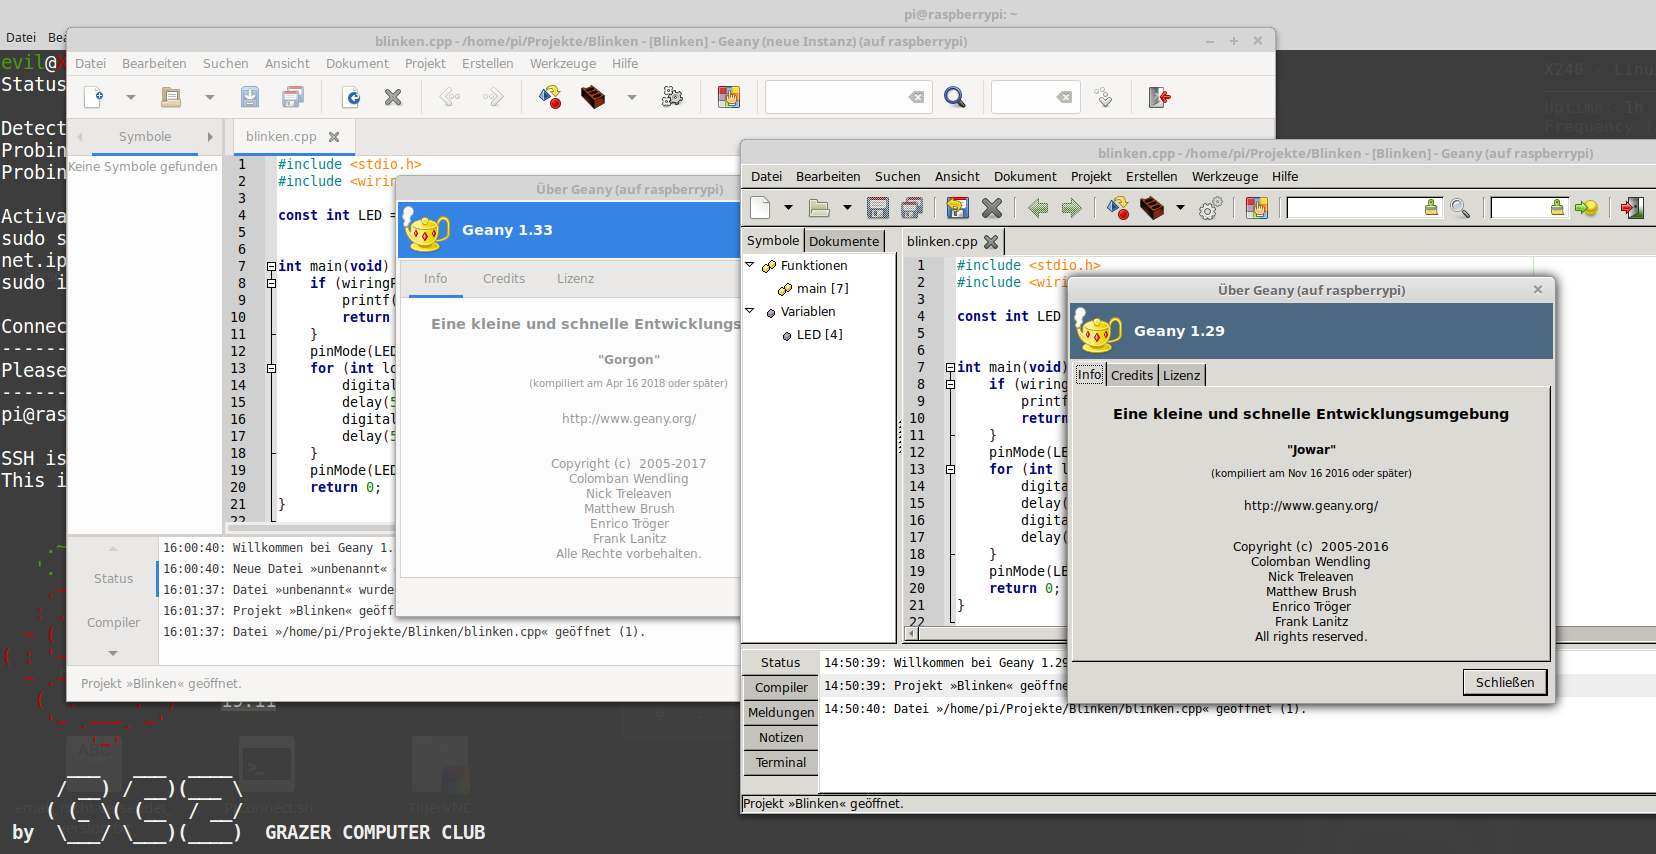
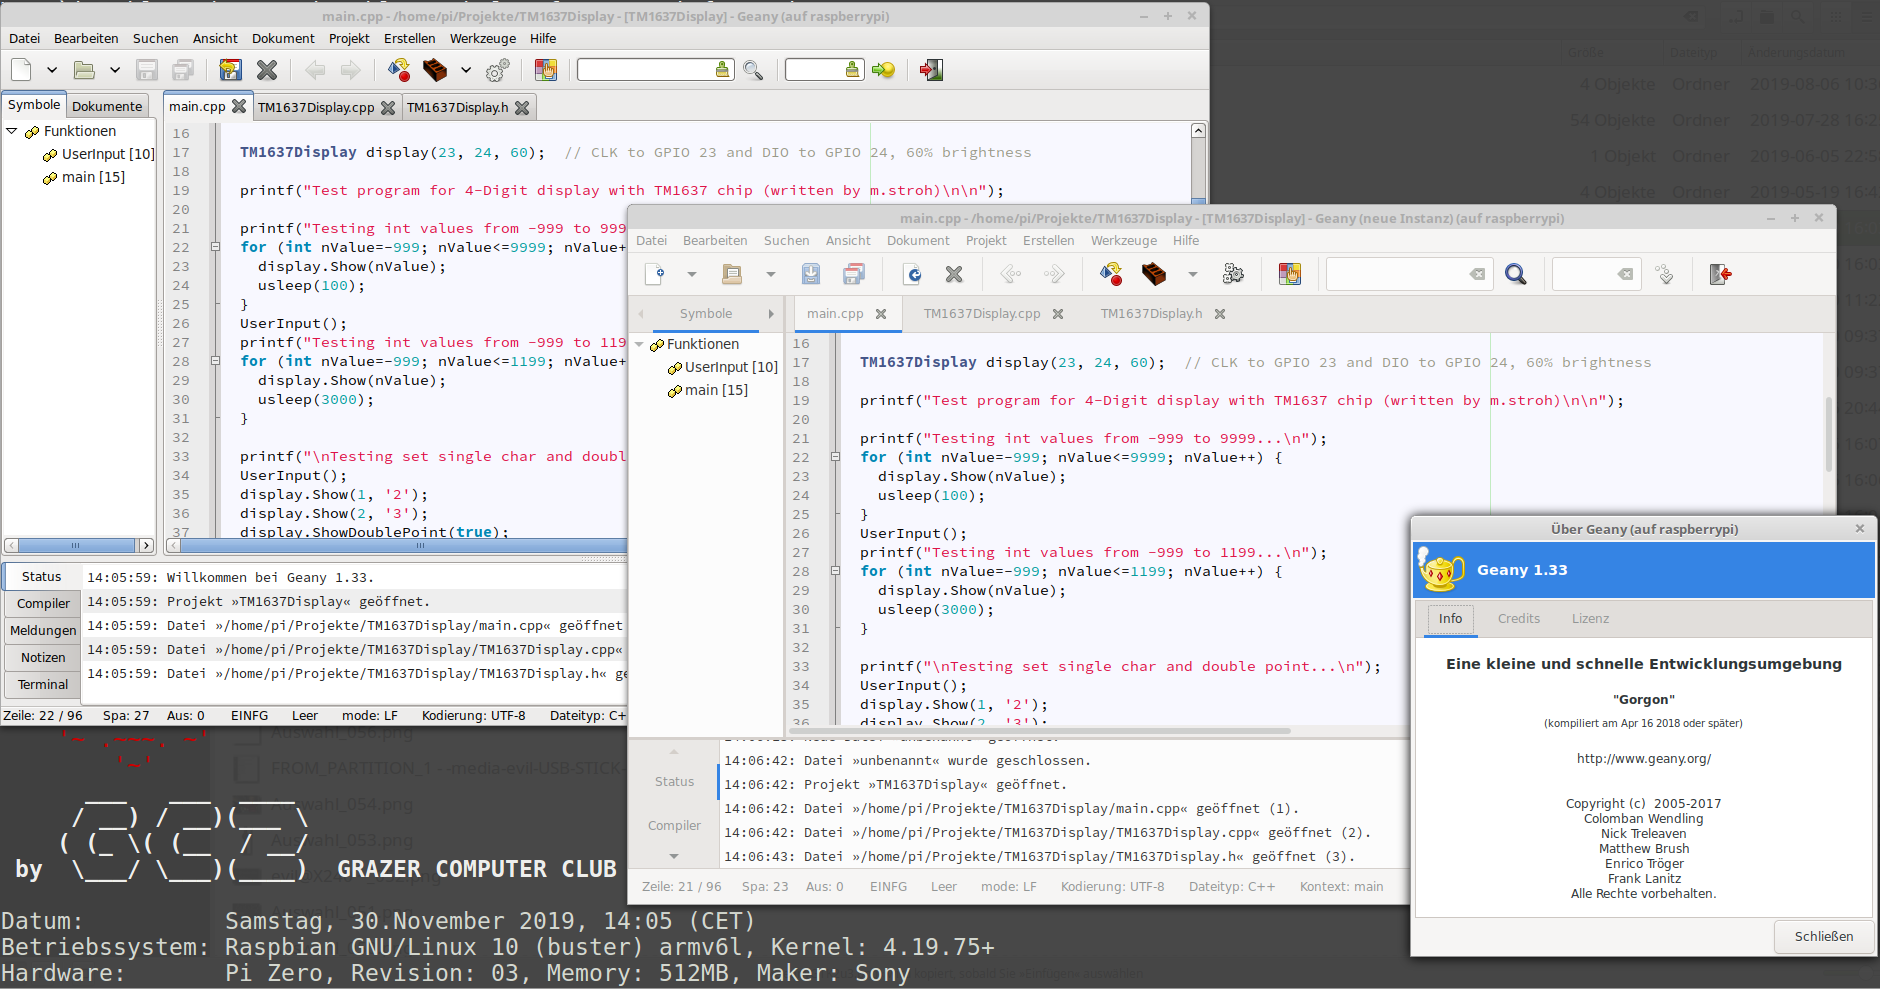
geany GTK2 update

diff --git a/content/post/geany.md b/content/post/geany.md
@@ -2,11 +2,11 @@
 showonlyimage = false
 draft = false
 image = "img/geany.png"
-date = "2019-11-10"
+date = "2019-11-30"
 title = "Geany mit GTK2"
 writer = "Martin Strohmayer"
-categories = ["Raspberry Pi Zero"]
-keywords = ["geany", "GTK", "GTK2", "GTK3", "VTE"]
+categories = ["Raspberry Pi Zero", "Raspberry Pi"]
+keywords = ["geany", "GTK", "GTK2", "GTK3", "VTE", "theme"]
 weight = 1
 +++
 
@@ -62,18 +62,88 @@ ldd /usr/bin/geany
 	libgeany.so.0 => /lib/arm-linux-gnueabihf/libgeany.so.0 (0xb6d58000)
 -->
 
-**Aufruf geany mit GTK2:**
 
+### Geany 1.33 GTK2 erstellen 
+
+Die Geany Version 1.33 mit der GTK2 Bibliothek kann selbst erstellt werden. Dies ist allerdings ein aufwendiger Prozess.
+Würde man das resultierende Debian Paket dann installieren wird die GTK3 Version ersetzt. Wir kopieren aber wieder die erzeugten Dateien zusätzlich
+auf das Raspbian System.  
+
+Zuerst besorgt man sich den Source-Code des Debian Paketes. Dann benötigt man noch alle Abhängigkeiten des Paketes und die GTK2 Development Library.
+Nun muss man den Source-Code entpacken. In der Datei "debian/rules" muss der Parameter "--enable-gtk3" entfernt werden. Danach kann das Paket neu erzeugt werden. Nun kopieren wir das neue Programm und die Bibliothekdateien in eine neue Datei bzw. Verzeichnis.
+
+geany-gtk2.patch:
+```
+--- geany-1.33/debian/rules.old	2019-11-27 21:55:31.871256842 +0100
++++ geany-1.33/debian/rules	2019-11-28 22:27:55.832759732 +0100
+@@ -10,7 +10,7 @@
+ 	NOCONFIGURE=1 dh_autoreconf ./autogen.sh
+ 
+ override_dh_auto_configure:
+-	dh_auto_configure -- --enable-vte --enable-the-force --enable-gtk3
++	dh_auto_configure -- --enable-vte --enable-the-force 
+ 	sed -i -r 's,^sys_lib_dlsearch_path_spec="(.*)$$,sys_lib_dlsearch_path_spec="/usr/lib /lib \1,' $(CURDIR)/libtool
+ 
+ override_dh_auto_install:
+```
+
+<!--
+pkg-config --libs gtk+-2.0
+-lgtk-x11-2.0 -lgdk-x11-2.0 -lpangocairo-1.0 -latk-1.0 -lcairo -lgdk_pixbuf-2.0 -lgio-2.0 -lpangoft2-1.0 -lpango-1.0 -lgobject-2.0 -lglib-2.0 -lfontconfig -lfreetype
+-->
+
+```
+sudo su -c "grep '^deb ' /etc/apt/sources.list | sed 's/^deb/deb-src/g' > /etc/apt/sources.list.d/deb-src.list"
+sudo apt update
+sudo apt install build-essential fakeroot devscripts
+sudo apt-get build-dep geany
+sudo apt-get install libgtk2.0-dev libgdk-pixbuf2.0-dev libatk1.0-dev libcairo2-dev libgio2.0-cil-dev libfreetype6-dev libpango1.0-dev
+mkdir build
+cd build
+apt-get source geany
+patch -p0 -i geany-gtk2.patch
+cd geany-1.33
+debuild -uc -us -b
+sudo cp usr/bin/geany /usr/bin/geany-gtk2
+sudo mkdir /usr/lib/arm-linux-gnueabihf/geany-gtk2/
+sudo cp -rv usr/lib/arm-linux-gnueabihf/* /usr/lib/arm-linux-gnueabihf/geany-gtk2/
+cd ..
+```
+
+## Start ##
+
+Bei Aufruf der GTK2 version muss man die Pfad für die Bibliothek setzen damit nicht die GTK3 Bibliothek geladen wird. 
+
+**Aufruf geany mit GTK2:**
 ```
 LD_LIBRARY_PATH=/usr/lib/arm-linux-gnueabihf/geany-gtk2/ geany-gtk2
 ```
 
-**Alias für Aufruf "~/.bash_aliases":**
+Bei einem alias Eintrag können die zwei Version direkt gestartet werden. 
 
+**Alias für Aufruf "~/.bash_aliases":**
 ```
-alias geany-gtk2="LD_LIBRARY_PATH=/usr/lib/arm-linux-gnueabihf/geany-gtk2/  geany-gtk2"
+alias geany-gtk2="LD_LIBRARY_PATH=/usr/lib/arm-linux-gnueabihf/geany-gtk2/ geany-gtk2"
 alias geany-gtk3="/usr/bin/geany"
 ```
+
+Mit dem Aufruf geany kann dann je nach Systemleistung die GTK2 oder GTK3 Version gestartet werden.
+
+**Alias für Aufruf "~/.profile":**
+
+```
+function geany() { 
+	if [ `cat /proc/cpuinfo | grep -e "^processor" | wc -l` = 1 ]; then 
+    echo "start geany with GTK 2 (slow single core cpu)" 
+		geany-gtk2 "$@"
+	else 
+		geany-gtk3 "$@"
+	fi
+}
+```
+
+Optischer Vergleich der beiden Versionen siehe Titelbild (GTK2 Clearlooks theme links, GTK3 rechts).
+
 
 ## Einstellungen ##
 
@@ -98,22 +168,22 @@ Folgende Zeit wurde ohne exakte Messung ermittelt und sind deshalb nur als Richt
 
 | *Aktion*     | *GTK3 (Sek.)* | *GTK2 (Sek.)* |
 |:-------------|--------|--------|
-| Start        | 11     | 6      |
-| Fenster öffnen: Kommandos zum Erstellen konfigurieren | 4  | 1 |
-| Fenster öffnen: Einstellungen                         | 10 | 2 |
-| Beenden        | 3    | 2      |
+| Start        | 8     | 4      |
+| Fenster öffnen: Kommandos zum Erstellen konfigurieren | 2  | 1 |
+| Fenster öffnen: Einstellungen                         | 7 | 2 |
+| Beenden        | 2    | 1      |
 
 
 ### Raspberry Pi 2
 
 | *Aktion*     | *GTK3 (Sek.)* | *GTK2 (Sek.)* |
-|:-------------|--------|--------|
-| Start        | 5      | 3      |
-| Fenster öffnen: Kommandos zum Erstellen konfigurieren | 2 | 1 |
-| Fenster öffnen: Einstellungen                         | 6 | 2 |
-| Beenden      | 2      | 1      |
+|:-------------|---------------|---------------|
+| Start        | 4             | 2             |
+| Fenster öffnen: Kommandos zum Erstellen konfigurieren | 1 | 1 |
+| Fenster öffnen: Einstellungen                         | 3 | 1 |
+| Beenden      | 1             | 1             |
 
-
+<!--
 ### Raspberry Pi 3
 
 | *Aktion*     | *GTK3 (Sek.)* | *GTK2 (Sek.)* |
@@ -122,3 +192,68 @@ Folgende Zeit wurde ohne exakte Messung ermittelt und sind deshalb nur als Richt
 | Fenster öffnen: Kommandos zum Erstellen konfigurieren | 1 | 1 |
 | Fenster öffnen: Einstellungen                         | 4 | 1 |
 | Beenden      | 1      | 1      |
+-->
+
+
+<!--
+Fehler reparieren funktioniert nicht!:
+/usr/lib/arm-linux-gnueabihf/gdk-pixbuf-2.0
+sudo ./gdk-pixbuf-query-loaders --update-cache
+sudo update-mime-database /usr/share/mime
+sudo gtk-update-icon-cache -fv /usr/share/icons/hicolor/ /usr/share/icons/Adwaita/
+sudo apt-get install papirus-icon-theme
+-->
+
+# Style für GTK2 ändern
+
+<!-- gtk-theme-switch gtk2-engines-cleanice gtk2-engines-magicchicken 
+gtk-theme-switch2
+
+cat gtk-icon-theme-name="breeze" >> /home/pi/.gtkrc-2.0
+
+-->
+
+Die Optik der alten GTK2 Version schaut in der default Konfiguration recht altbacken aus. Eine anderes Theme wie z.B. "Clearlooks" gibt dem Programm einen 
+ modernen Look.
+
+```
+sudo apt-get install gtk-theme-switch gtk2-engines
+gtk-theme-switch2
+```
+/home/pi/.gtkrc-2.0:
+```
+# -- THEME AUTO-WRITTEN BY gtk-theme-switch2 DO NOT EDIT
+include "/usr/share/themes/Clearlooks/gtk-2.0/gtkrc"
+
+include "/home/pi/.gtkrc-2.0.mine"
+
+# -- THEME AUTO-WRITTEN BY gtk-theme-switch2 DO NOT EDIT
+```
+
+<!--
+sudo apt-get install lxappearance 
+lxappearance
+
+/home/pi/.gtkrc-2.0:
+```
+# DO NOT EDIT! This file will be overwritten by LXAppearance.
+# Any customization should be done in ~/.gtkrc-2.0.mine instead.
+
+include "/home/pi/.gtkrc-2.0.mine"
+gtk-theme-name="Clearlooks"
+gtk-icon-theme-name="hicolor"
+gtk-font-name="Noto Sans 9"
+gtk-cursor-theme-size=24
+gtk-toolbar-style=GTK_TOOLBAR_BOTH_HORIZ
+gtk-toolbar-icon-size=GTK_ICON_SIZE_LARGE_TOOLBAR
+gtk-button-images=0
+gtk-menu-images=1
+gtk-enable-event-sounds=0
+gtk-enable-input-feedback-sounds=0
+gtk-xft-antialias=1
+gtk-xft-hinting=1
+gtk-xft-hintstyle="hintslight"
+gtk-xft-rgba="rgb"
+```
+
+-->
